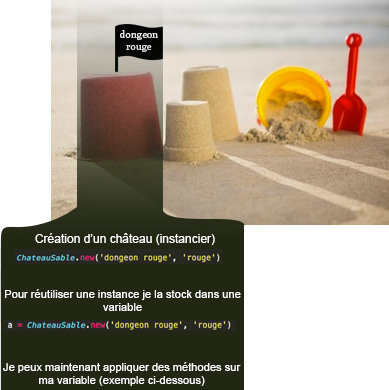
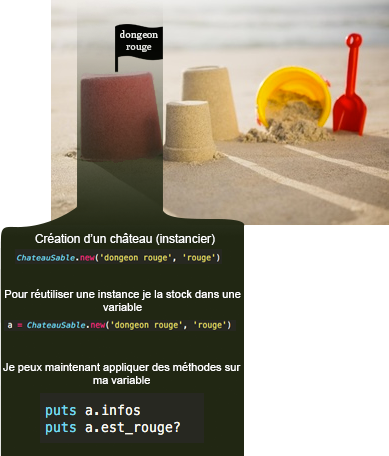
improve image

Changed region(s): [[0.0, 0.0308, 1.0, 0.8615], [0.0, 0.8923, 0.617, 0.9846]]

diff --git a/README.md b/README.md
@@ -56,6 +56,8 @@ On peux appliquer toute sorte de méthodes sur notre instance, il suffit de stoc
 
 ![image du dongeon de feu rouge](images/castle-instances-precision.png)
 
+#### Exemple complet:
+
 ```ruby
 class ChateauSable
     attr_accessor :nom, :couleur
